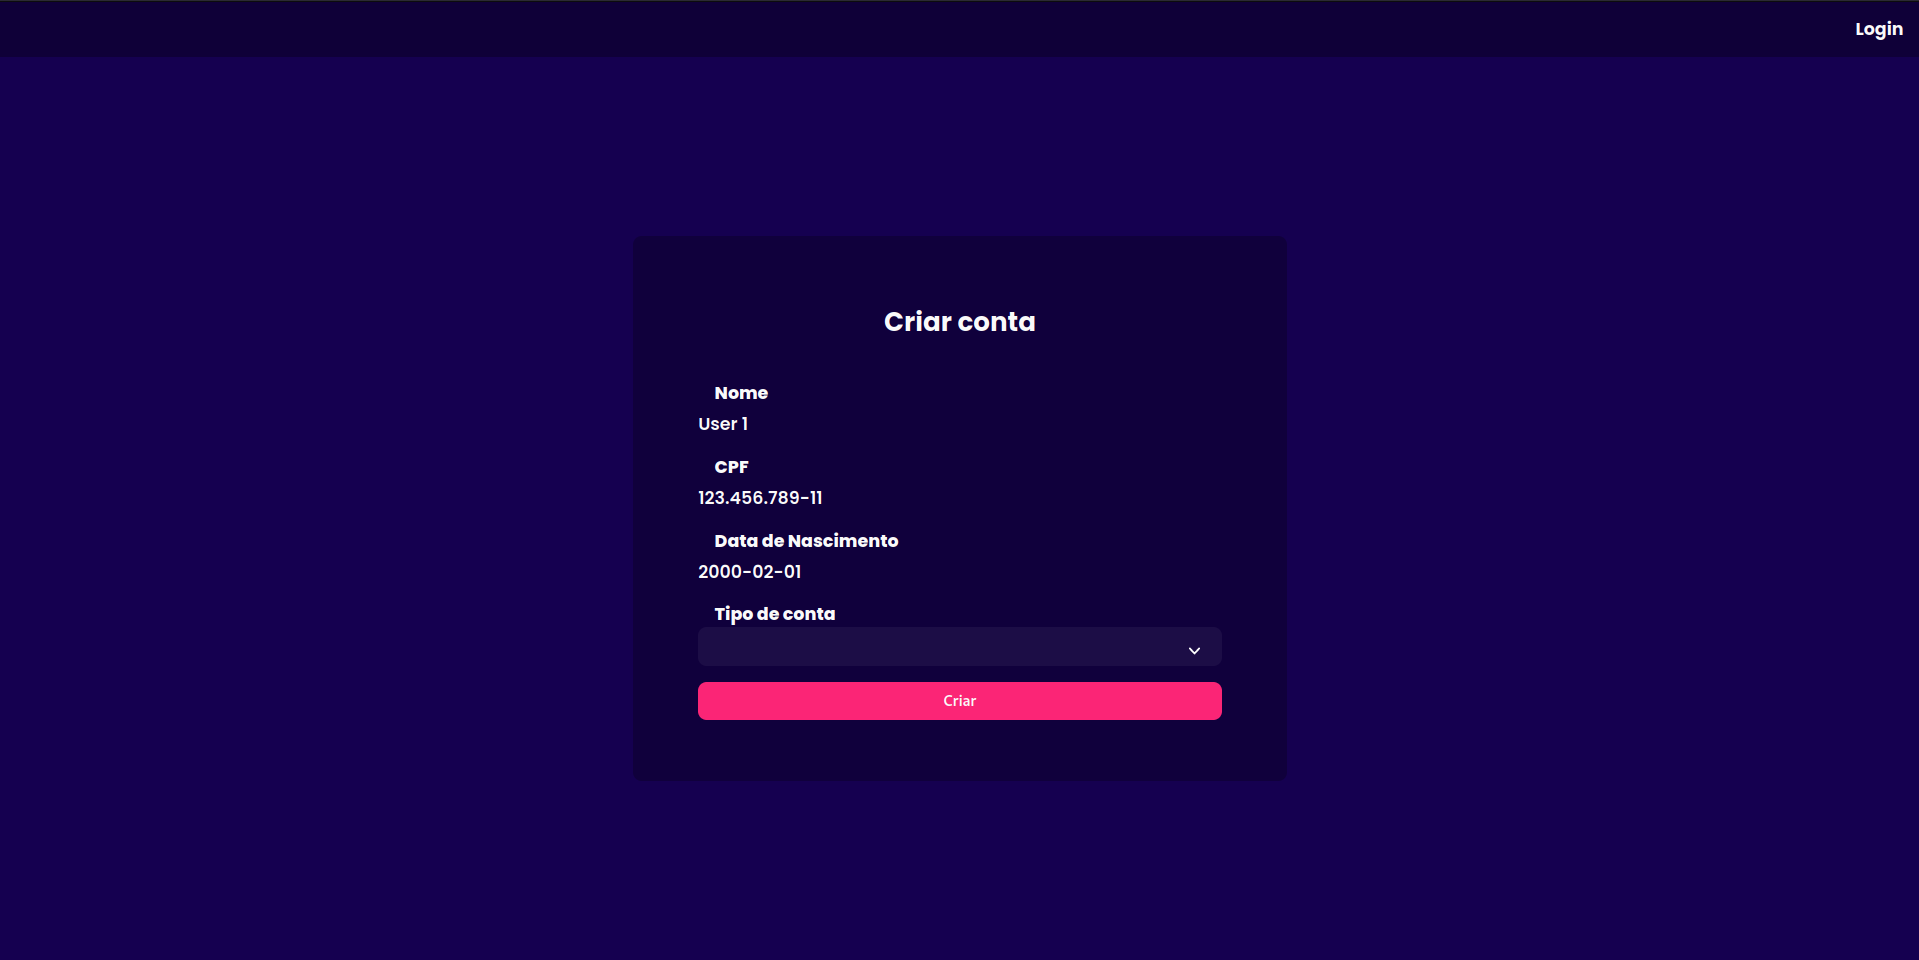
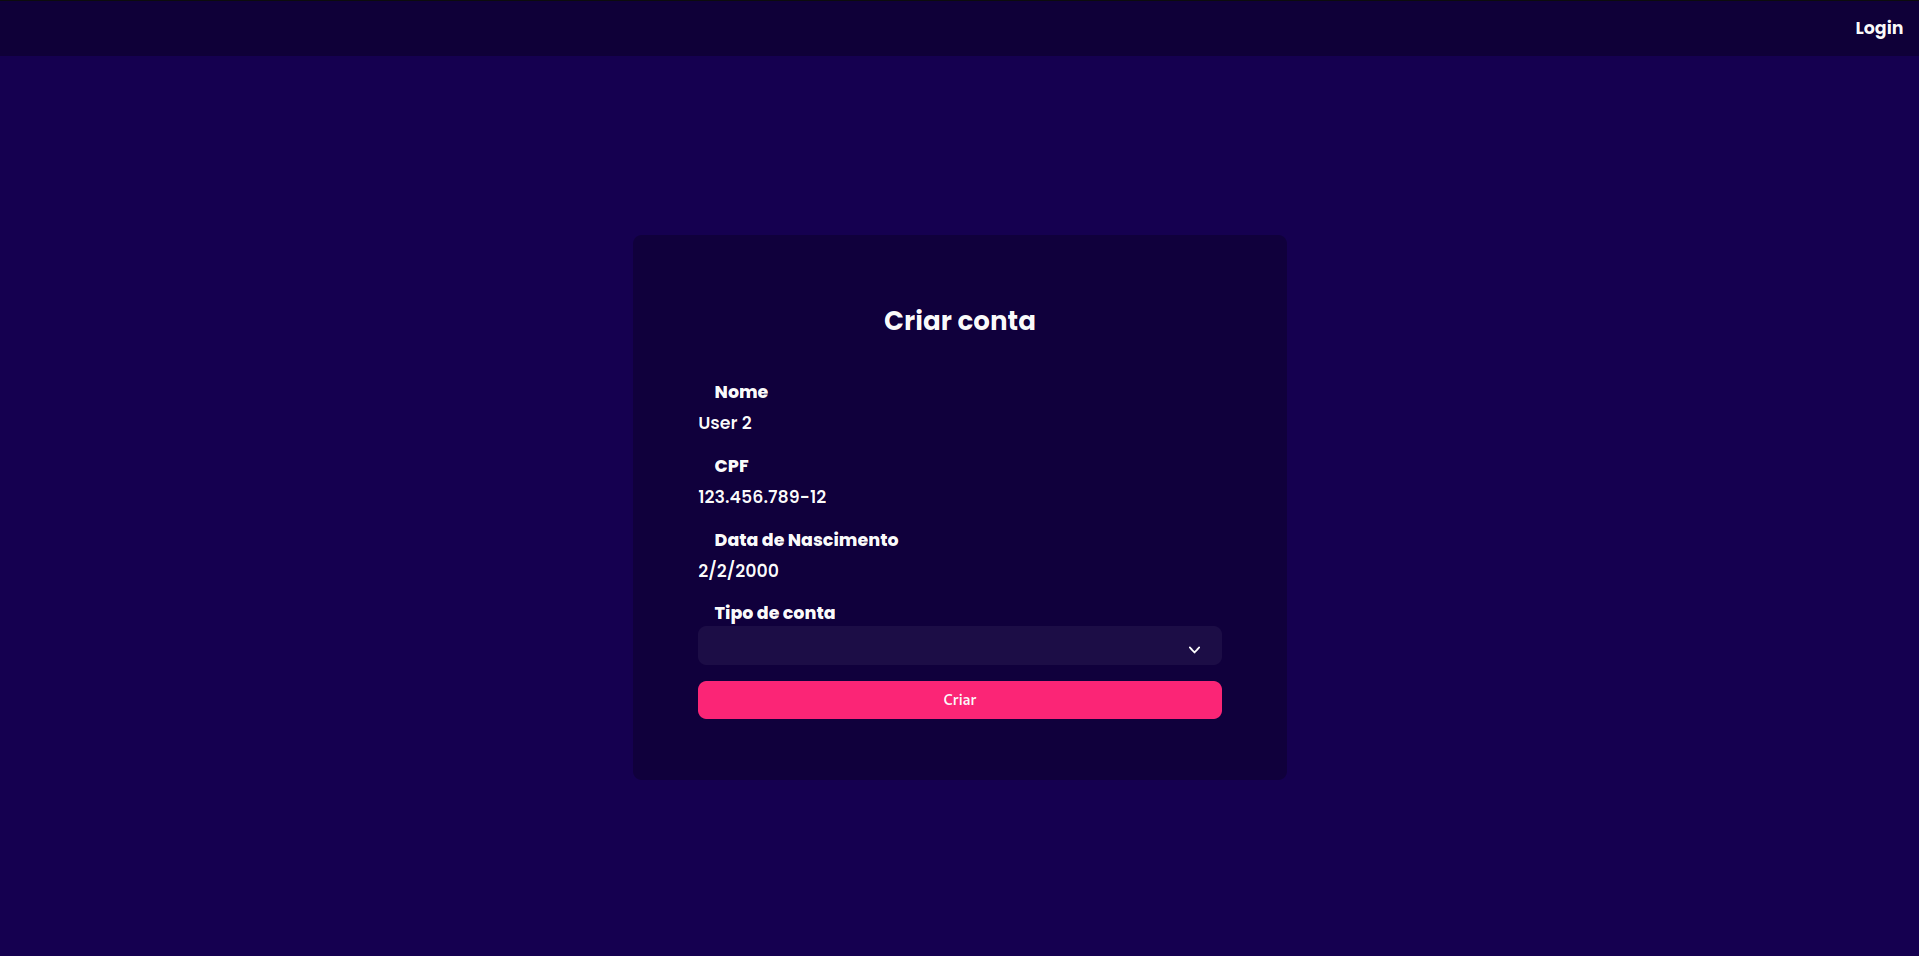
Conserta data em tela de criação

diff --git a/app-bank/src/views/CreateAccountView.vue b/app-bank/src/views/CreateAccountView.vue
@@ -54,7 +54,8 @@ export default defineComponent({
     this.registryToSend = this.userRegistry.replace(/[.,/#!$%^&*;:{}=\-_`~()]/g, "");
     axios.get(`http://localhost:5000/person/${this.registryToSend}`)
       .then((response: any) => {
-        this.birthdate = response.data.birthdate.substring(0, 10);
+        let date = new Date(response.data.birthdate);
+        this.birthdate = `${date.toLocaleDateString()}`;
         this.name = response.data.name;
         this.userId = response.data.id;
       });
